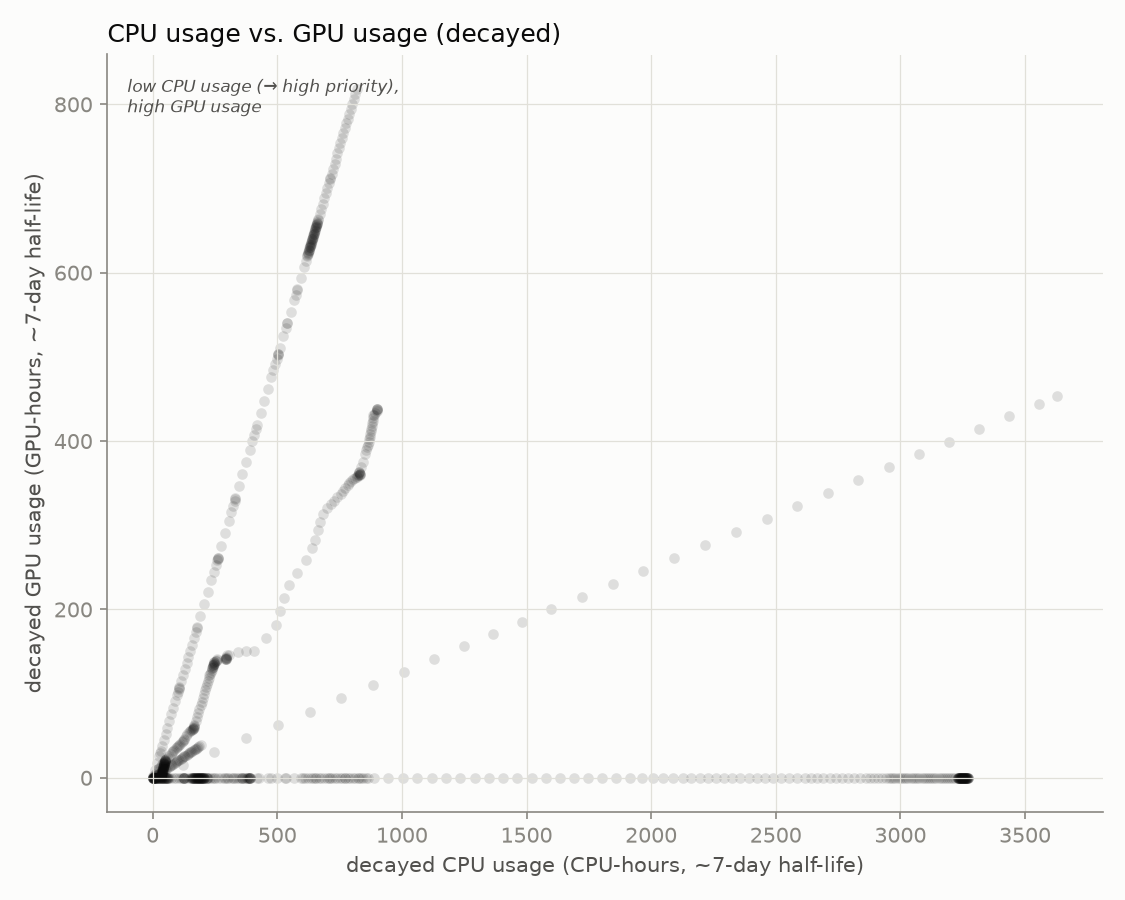
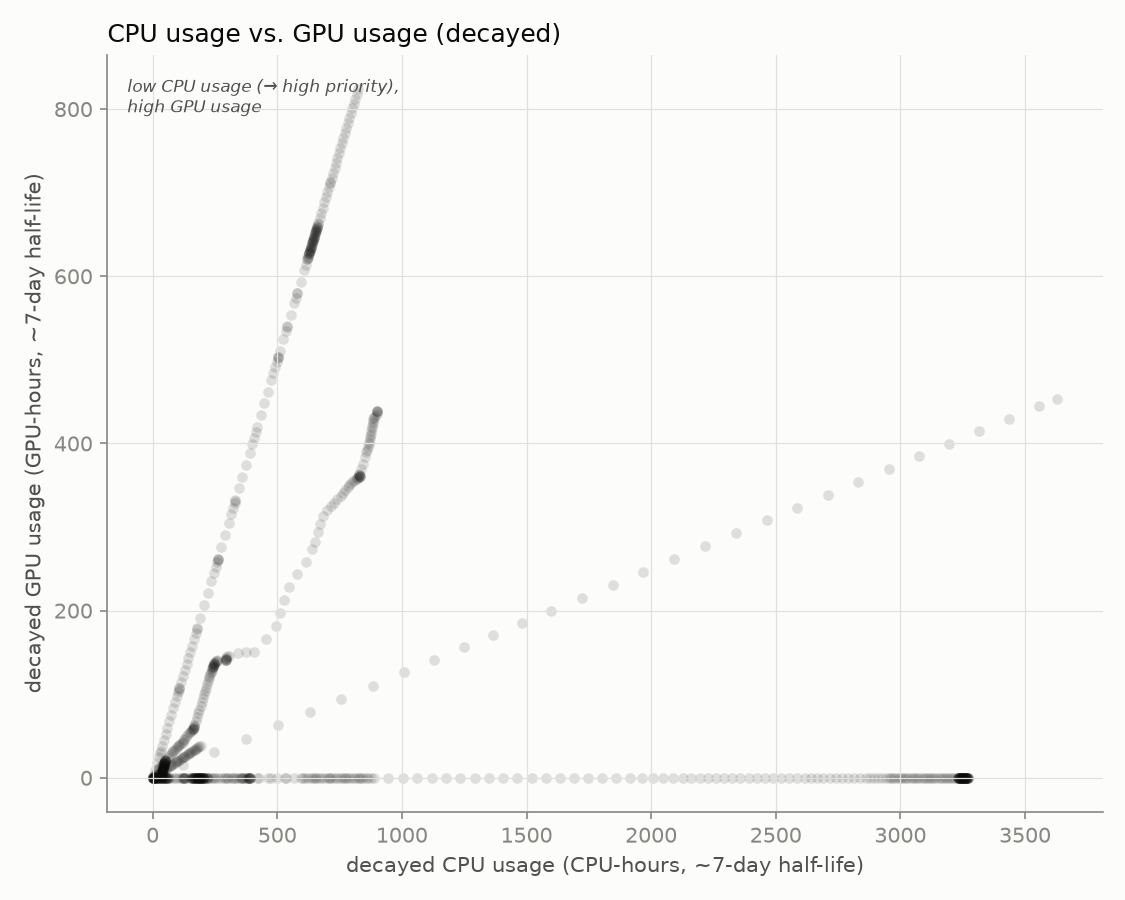
update 2026-08-08T20:00:01-07:00

diff --git a/README.md b/README.md
@@ -2,8 +2,8 @@
 
 Automated GPU/CPU/queue utilization tracker for `hopper.cluster`, updated every 30 minutes by cron. Usernames are anonymized to a stable per-account pseudonym; lab names are real.
 
-Last updated: 2026-08-08T19:30:09-07:00
-Samples: 155 queue snapshots, 155 GPU snapshots
+Last updated: 2026-08-08T20:00:10-07:00
+Samples: 156 queue snapshots, 156 GPU snapshots
 
 ## Resources
 
@@ -16,24 +16,24 @@ Samples: 155 queue snapshots, 155 GPU snapshots
 
 ## Headline
 
-- **42.9%** of the cluster's 60 GPUs allocated, averaged across all samples
-- **45.7%** average `nvidia-smi` utilization *when* a GPU is allocated to a job
+- **42.7%** of the cluster's 60 GPUs allocated, averaged across all samples
+- **45.6%** average `nvidia-smi` utilization *when* a GPU is allocated to a job
 - **88.4%** average cgroup CPU utilization *when* a CPU is allocated to a job
 
 ## Per lab / per user
 
 <table>
 <tr><th>Lab</th><th>User</th><th align='right'>GPU-hours allocated</th><th align='right'>CPU-hours allocated</th><th align='right'>GPU utilization</th></tr>
-<tr style='background-color:#d8ecd8'><td>zhuang-lab</td><td>user-0db9ced0</td><td align='right'>969.5</td><td align='right'>969.5</td><td align='right'>42%</td></tr>
+<tr style='background-color:#d8ecd8'><td>zhuang-lab</td><td>user-0db9ced0</td><td align='right'>977.0</td><td align='right'>977.0</td><td align='right'>42%</td></tr>
 <tr style='background-color:#d8efef'><td>witter-lab</td><td>user-554c620c</td><td align='right'>493.5</td><td align='right'>1023.0</td><td align='right'>68%</td></tr>
 <tr style='background-color:#d8efef'><td>witter-lab</td><td>user-d58f5a15</td><td align='right'>467.5</td><td align='right'>3740.0</td><td align='right'>9%</td></tr>
 <tr style='background-color:#fbebf1'><td>nerenberg-lab</td><td>user-6bb5f332</td><td align='right'>40.0</td><td align='right'>200.0</td><td align='right'>71%</td></tr>
 <tr style='background-color:#fbebf1'><td>nerenberg-lab</td><td>user-fedb5feb</td><td align='right'>22.5</td><td align='right'>54.0</td><td align='right'>67%</td></tr>
-<tr style='background-color:#fcf0d8'><td>ibarragarciapadilla-lab</td><td>user-3cfc41a3</td><td align='right'>0.0</td><td align='right'>4080.0</td><td align='right'>—</td></tr>
-<tr style='background-color:#dfeaf8'><td>enkavi-lab</td><td>user-c21bdaa4</td><td align='right'>0.0</td><td align='right'>207.0</td><td align='right'>—</td></tr>
 <tr style='background-color:#fcf0d8'><td>ibarragarciapadilla-lab</td><td>user-dad71a72</td><td align='right'>0.0</td><td align='right'>6.0</td><td align='right'>—</td></tr>
-<tr style='background-color:#fce8e0'><td>gillen-lab</td><td>user-b89a87ef</td><td align='right'>0.0</td><td align='right'>912.0</td><td align='right'>—</td></tr>
+<tr style='background-color:#fcf0d8'><td>ibarragarciapadilla-lab</td><td>user-3cfc41a3</td><td align='right'>0.0</td><td align='right'>4080.0</td><td align='right'>—</td></tr>
 <tr style='background-color:#fbebf1'><td>nerenberg-lab</td><td>user-b12dc074</td><td align='right'>0.0</td><td align='right'>16.0</td><td align='right'>—</td></tr>
+<tr style='background-color:#dfeaf8'><td>enkavi-lab</td><td>user-c21bdaa4</td><td align='right'>0.0</td><td align='right'>209.0</td><td align='right'>—</td></tr>
+<tr style='background-color:#fce8e0'><td>gillen-lab</td><td>user-b89a87ef</td><td align='right'>0.0</td><td align='right'>924.0</td><td align='right'>—</td></tr>
 <tr style='background-color:#fcf0d8'><td>ibarragarciapadilla-lab</td><td>user-eec7ffae</td><td align='right'>0.0</td><td align='right'>426.5</td><td align='right'>—</td></tr>
 </table>
 
@@ -45,7 +45,7 @@ Samples: 155 queue snapshots, 155 GPU snapshots
 
 Solid = utilized by lab, hatched = allocated but idle, gray = usage not traceable to a lab, dashed line = cluster capacity.
 
-Attribution combines `nvidia-smi`'s process listing with Slurm's GPU-to-job binding record; the latter caught **2864** readings the former missed.
+Attribution combines `nvidia-smi`'s process listing with Slurm's GPU-to-job binding record; the latter caught **2875** readings the former missed.
 
 ## Queue
 
@@ -57,13 +57,13 @@ Attribution combines `nvidia-smi`'s process listing with Slurm's GPU-to-job bind
 
 ![CPU usage vs GPU usage, decayed](assets/cpu_gpu_usage.png)
 
-One point per user per snapshot (n=734), usage decayed on Slurm's ~7-day fairshare half-life.
+One point per user per snapshot (n=737), usage decayed on Slurm's ~7-day fairshare half-life.
 
 **GPU usage doesn't count toward priority on this cluster** (`TRESBillingWeights`/`PriorityWeightTRES` unset) - watch the **upper-left**: low CPU usage (high priority) with high GPU usage.
 
 ## Recommendations
 
-1. **Weight GPU usage in fairshare.** `TRESBillingWeights` and `PriorityWeightTRES` are both unset right now, so Slurm's fairshare score only sees CPU-seconds - a job holding 4 idle L40S GPUs costs nothing in priority as long as it isn't also holding CPUs. That's the exact failure mode the scatter above is built to catch (upper-left: low CPU usage, high GPU usage). Fix: `scontrol update partition=main TRESBillingWeights=CPU=1.0,GRES/gpu=<weight>` (or set `PriorityWeightTRES` cluster-wide), then `scontrol reconfigure` - a full `slurmctld` restart also works but drops in-flight priority state. A reasonable starting point for `<weight>` is the CPUs-per-GPU ratio on a GPU node (128 CPUs / 4 GPUs = 32), so one GPU costs as much fairshare as the CPU share it displaces; tune from there against next week's headline numbers (42.9% allocated, 45.7% utilized when allocated, as of this snapshot). The weight value itself is a policy call - loop in whoever owns cluster allocation policy before changing it.
+1. **Weight GPU usage in fairshare.** `TRESBillingWeights` and `PriorityWeightTRES` are both unset right now, so Slurm's fairshare score only sees CPU-seconds - a job holding 4 idle L40S GPUs costs nothing in priority as long as it isn't also holding CPUs. That's the exact failure mode the scatter above is built to catch (upper-left: low CPU usage, high GPU usage). Fix: `scontrol update partition=main TRESBillingWeights=CPU=1.0,GRES/gpu=<weight>` (or set `PriorityWeightTRES` cluster-wide), then `scontrol reconfigure` - a full `slurmctld` restart also works but drops in-flight priority state. A reasonable starting point for `<weight>` is the CPUs-per-GPU ratio on a GPU node (128 CPUs / 4 GPUs = 32), so one GPU costs as much fairshare as the CPU share it displaces; tune from there against next week's headline numbers (42.7% allocated, 45.6% utilized when allocated, as of this snapshot). The weight value itself is a policy call - loop in whoever owns cluster allocation policy before changing it.
 
 2. **Escalate on sustained low utilization** (see table and scatter above). Right now the clearest candidate is `user-d58f5a15` in `witter-lab`: 467.5 GPU-hours allocated at 9% average utilization, i.e. roughly 424 GPU-hours that sat idle instead of going to someone in the queue. Turning that into an automated escalation needs two decisions made up front: a utilization threshold (something like under 20% mean utilization over at least 50 allocated GPU-hours is a defensible starting bar - loose enough to skip short debugging runs, tight enough to catch parked allocations) and a grace period (how many consecutive low-utilization snapshots before it counts as "sustained" rather than a momentary lull between batches). Once those are set, the mechanism can be either soft (a bot that reads `data/gpu_samples.jsonl` and reminds the user/lab by email or Slack) or hard (a Slurm-side QOS penalty, e.g. `sacctmgr modify qos <qos> set Priority-=<n>`, applied after N consecutive offending snapshots). Neither exists yet - today the table and scatter above are a read-only signal, not an enforced policy.
 
